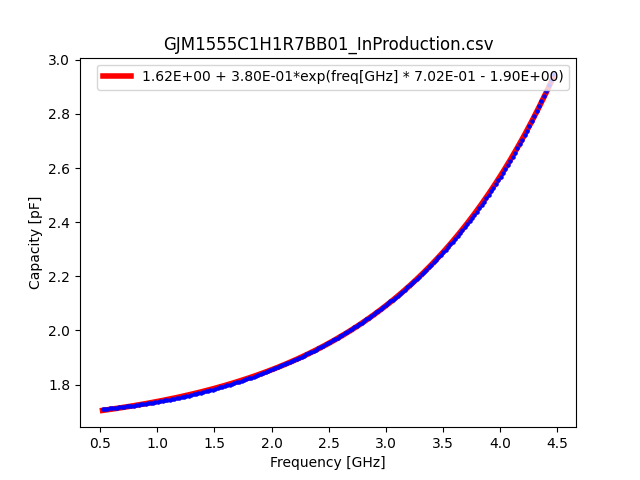
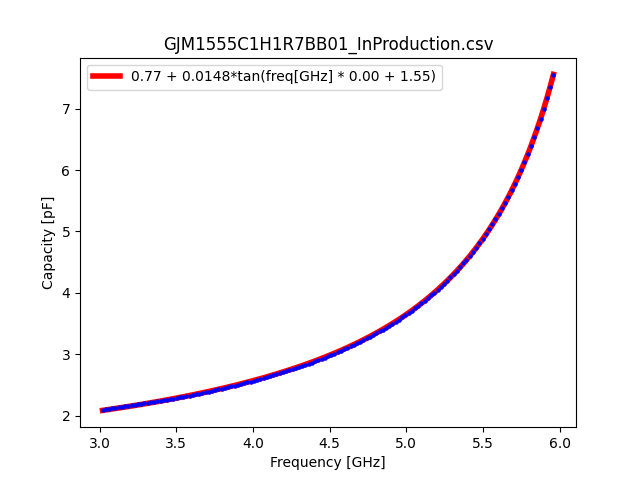
:sparkles: Feature : update function

diff --git a/fitting.py b/fitting.py
@@ -7,8 +7,8 @@ import glob
 from update_list import get_capacity_from_csv
 
 
-freq_min = 0.5e9
-freq_max = 4.5e9
+freq_min = 3e9
+freq_max = 6e9
 
 files = glob.glob("csv/*")
 for file_name in files:
@@ -56,15 +56,17 @@ for file_name in files:
 
     # fit function
     def func(f, a, b, c, d):
-        return a + b * np.exp(np.multiply(f, c) - d )
+        return a + b * np.tan( np.multiply(f, c) + d )
+        return a + b * np.exp( np.multiply(f, c) + d )
 
     # curve fitting
     a0 = get_capacity_from_csv(file_name)
-    popt, pcov = curve_fit(func, freq, cap, p0=[a0, 1, 0.01, 1], maxfev=5000)
+    popt, pcov = curve_fit(func, freq, cap, p0=[a0, 1, 1e-4, 0], maxfev=5000)
 
 
     plt.scatter(freq, cap, s=5, c='blue', zorder=2)
-    plt.plot(freq, func(freq, *popt), lw=4, c='red', zorder=1, label='{:.2E} + {:.2E}*exp(freq[GHz] * {:.2E} - {:.2E})'.format(*popt))
+    # plt.plot(freq, func(freq, *popt), lw=4, c='red', zorder=1, label='{:.2E} + {:.2E}*exp(freq[GHz] * {:.2E} + {:.2E})'.format(*popt))
+    plt.plot(freq, func(freq, *popt), lw=4, c='red', zorder=1, label='{:.2f} + {:.4f}*tan(freq[GHz] * {:.2f} + {:.2f})'.format(*popt))
     plt.title(file_name.split('/')[-1])
     plt.xlabel('Frequency [GHz]')
     plt.ylabel('Capacity [pF]')
